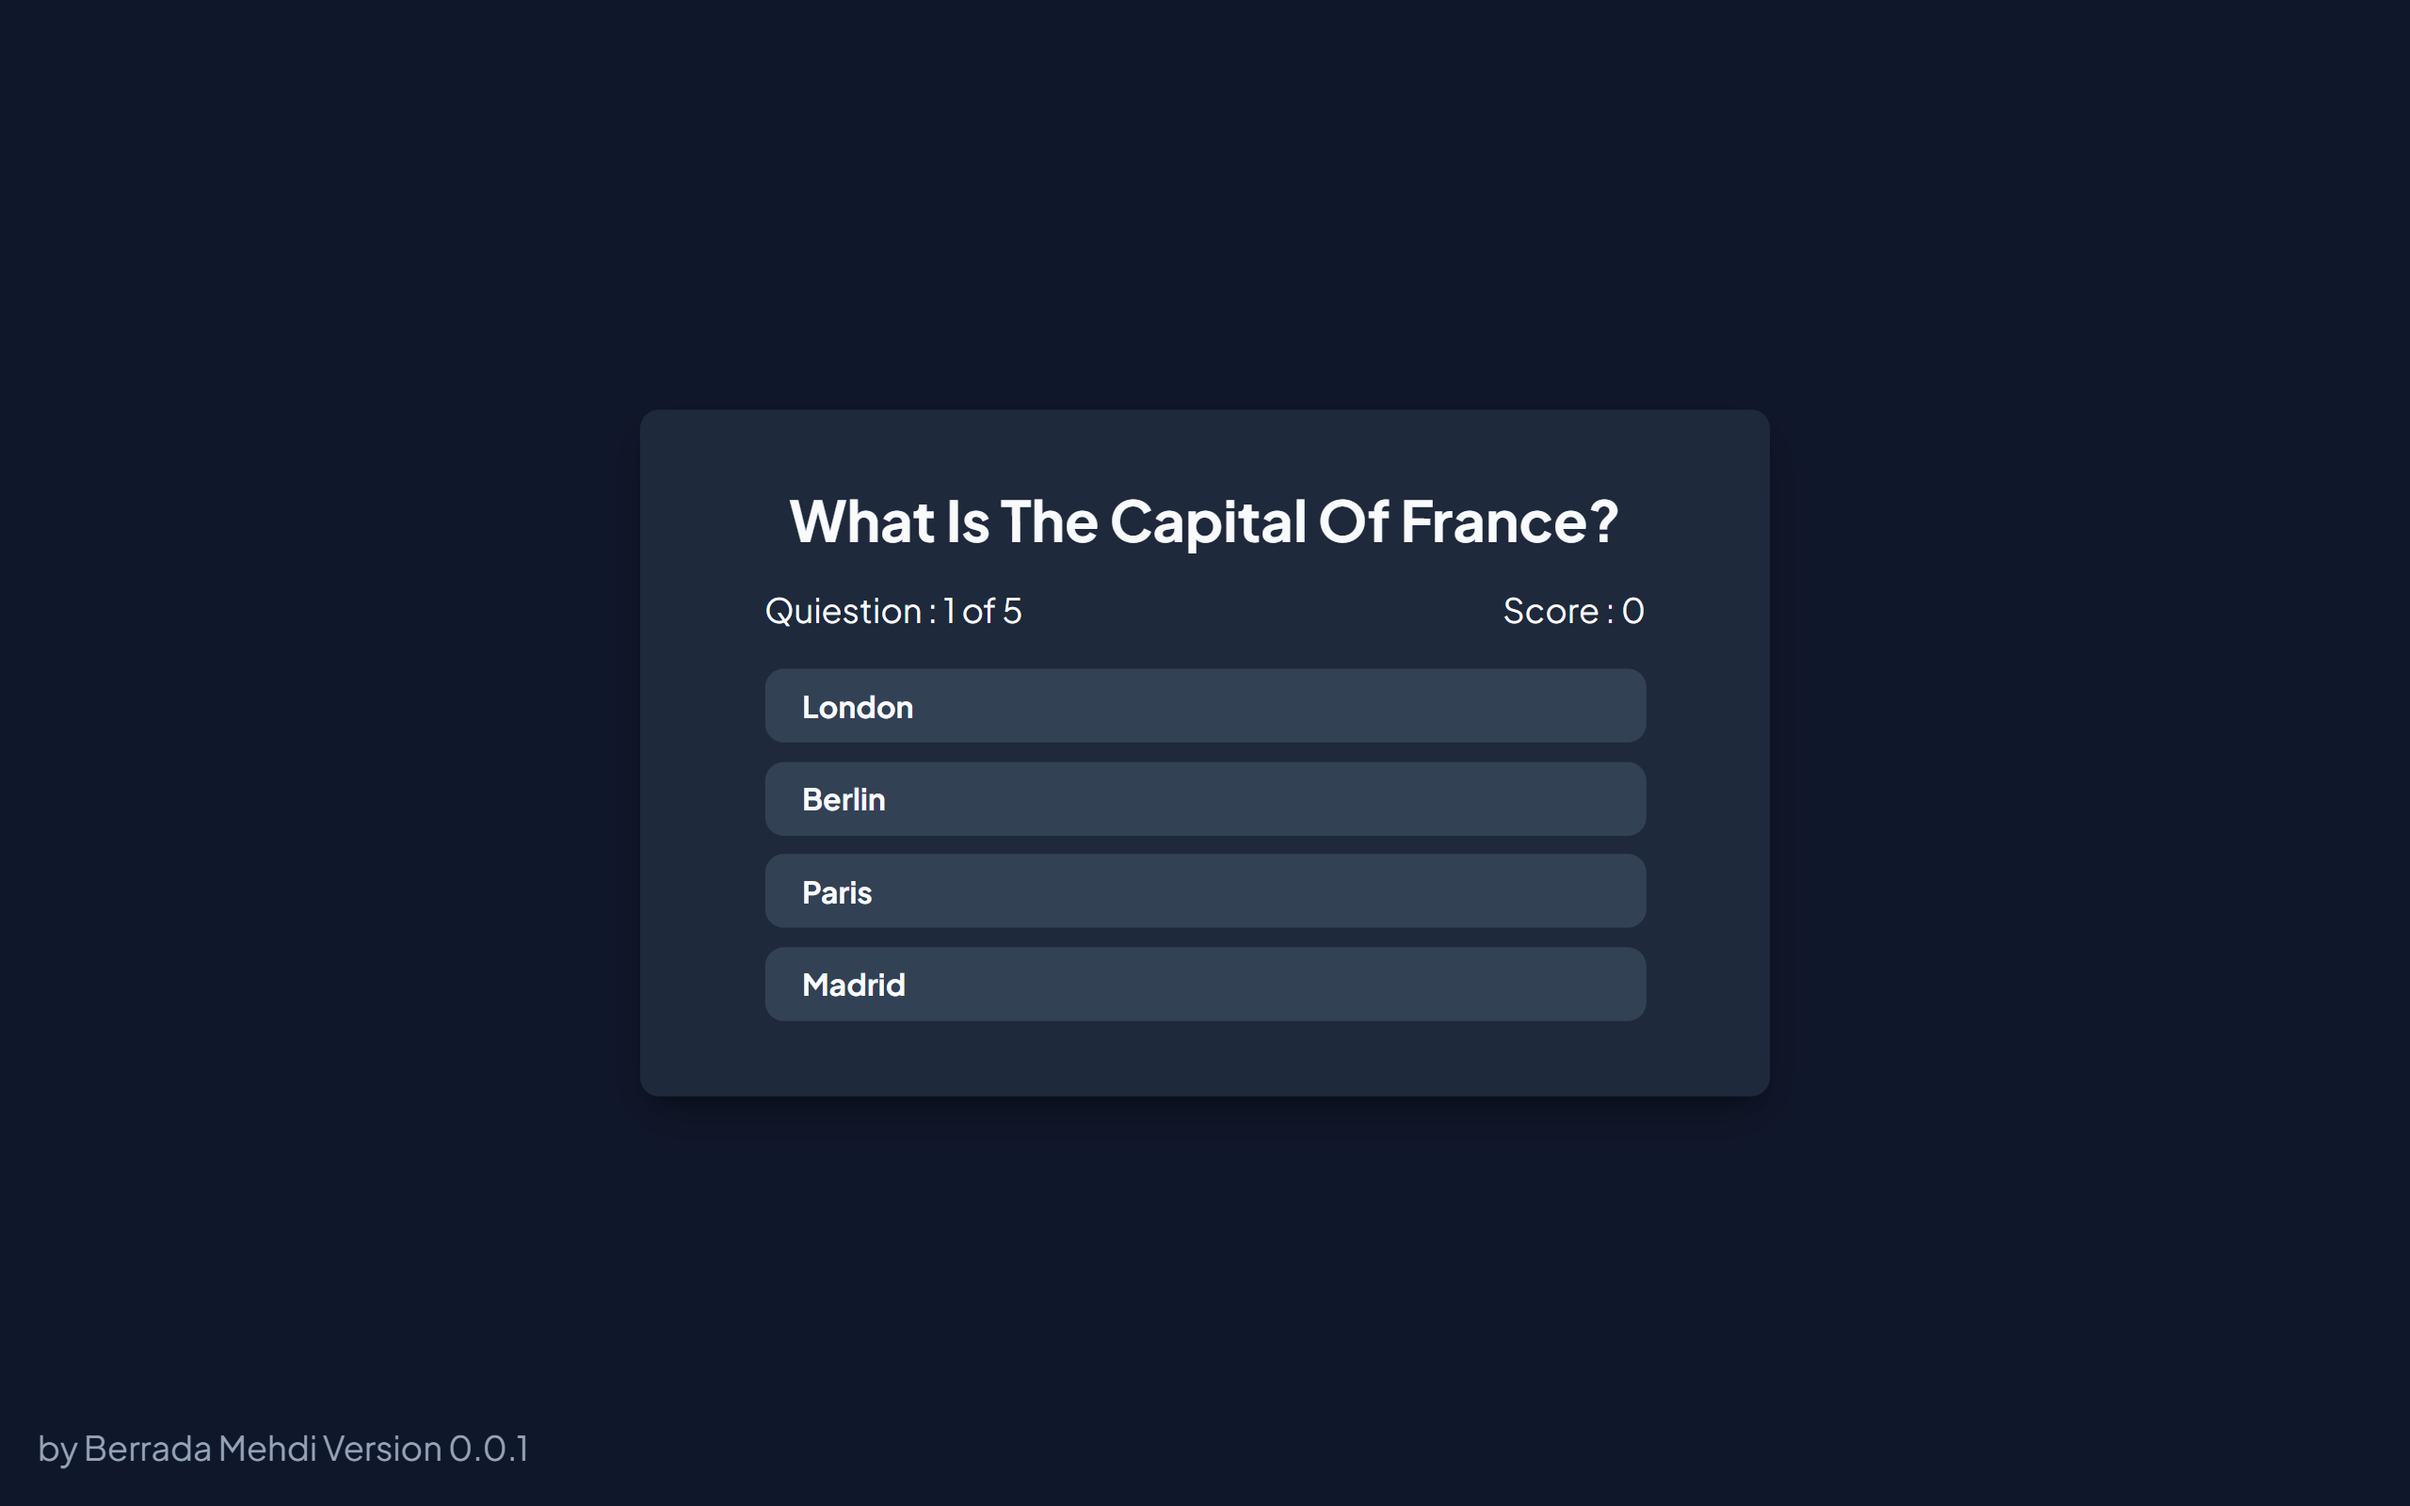
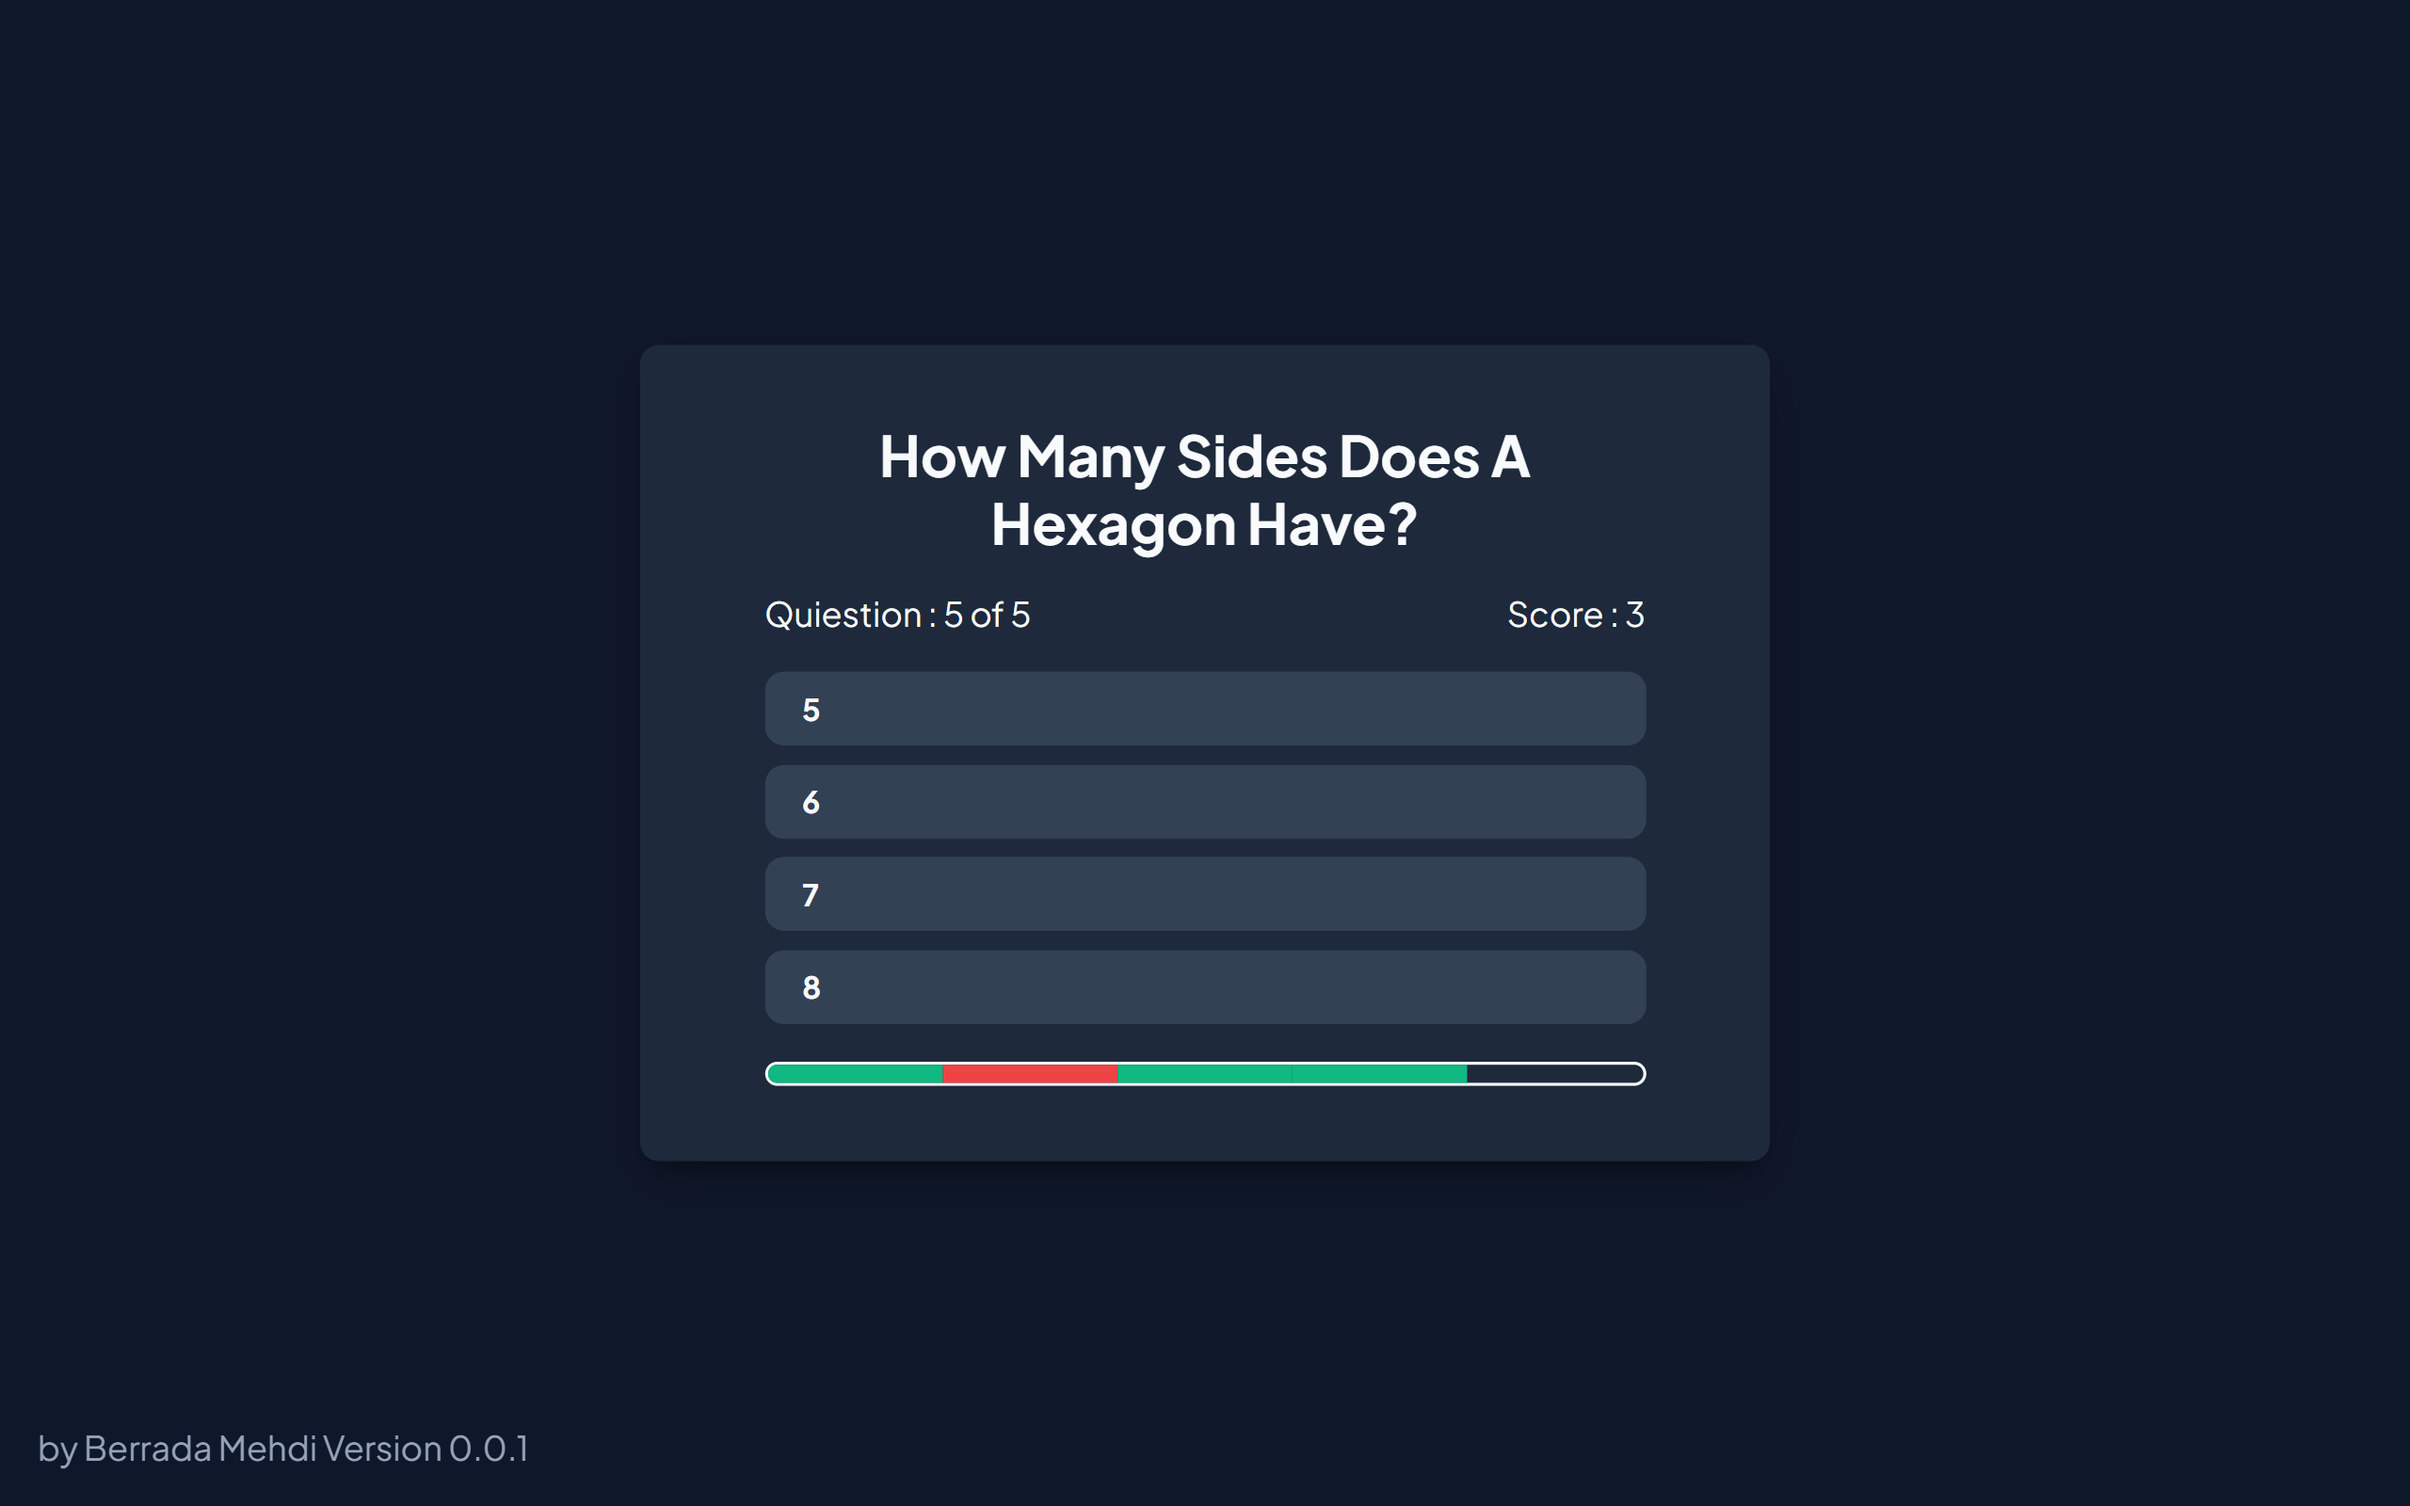
Release 0.1.0 is now available

Changed region(s): [[0.2812, 0.2812, 0.7188, 0.75]]

diff --git a/script.js b/script.js
@@ -28,15 +28,6 @@ const answer = [
     "6"
 ]
 
-const handleSecond = (view) => {
-    if(view) {
-        second_content.style.display = "flex"
-        handleQuestion(0)
-        return 0
-    }
-    second_content.style.display = "none"
-}
-
 let score = 0
 let good = 0
 const length = questions.length 
@@ -45,7 +36,21 @@ const box_answers = document.querySelector(".box-answers")
 const numbers_view = document.querySelector('.numbers')
 const score_view = document.querySelector(".score")
 const line_view = document.querySelector(".line")
-/* line.style.gridTemplateRows = `repeat(${length+1},1fr)` */
+
+line_view.style.gridTemplateColumns = `repeat(${length},1fr)`
+
+const handleSecond = (view) => {
+    if(view) {
+        second_content.style.display = "flex"
+        for (let i = 0; i < length; i++) {
+            line_view.innerHTML += `<div class='box' id='box${i}'></div>`
+        }
+        handleQuestion(0)
+        return 0
+    }
+    second_content.style.display = "none"
+}
+
 
 const handleQuestion = (value) => {
     question_title.textContent = questions[value]
@@ -53,41 +58,62 @@ const handleQuestion = (value) => {
     score_view.textContent = "Score : " + score
     box_answers.innerHTML = 
         `
-            <div class="answer" onclick="handleCheck('${options[value][0]}','${value}')">${options[value][0]}</div>
-            <div class="answer" onclick="handleCheck('${options[value][1]}','${value}')">${options[value][1]}</div>
-            <div class="answer" onclick="handleCheck('${options[value][2]}','${value}')">${options[value][2]}</div>
-            <div class="answer" onclick="handleCheck('${options[value][3]}','${value}')">${options[value][3]}</div>
+            <div class="answer" onclick="handleCheck('${options[value][0]}','${value}','${0}')">${options[value][0]}</div>
+            <div class="answer" onclick="handleCheck('${options[value][1]}','${value}','${1}')">${options[value][1]}</div>
+            <div class="answer" onclick="handleCheck('${options[value][2]}','${value}','${2}')">${options[value][2]}</div>
+            <div class="answer" onclick="handleCheck('${options[value][3]}','${value}','${3}')">${options[value][3]}</div>
         `
 }
 
-const handleCheck = (value,number) => {
+const handleCheck = (value,number,index) => {
     let count = number
+    const answersList = document.querySelectorAll(".answer")
+    const boxDiv = document.querySelector(`#box${number}`)
     if( answer[number] == value ) {
         score++
         good++
-        console.log(score)
-    }
-    count++
-    if(count < questions.length) {
-        handleQuestion(count)
+        answersList[index].style.backgroundColor = "#10b981"
+        boxDiv.style.backgroundColor = "#10b981"
     }
     else {
-        handleSecond(false)
-        handleResult(true)
+        answersList[index].style.backgroundColor = "#ef4444"
+        boxDiv.style.backgroundColor = "#ef4444"
     }
+    setTimeout(() => {
+        count++
+        answersList[index].style.backgroundColor = "#334155"
+        if(count < questions.length) {
+            handleQuestion(count)
+        }
+        else {
+            handleSecond(false)
+            handleResult(true)
+        }
+    },2000)
 }
 
 const third_content = document.querySelector(".third-content")
 const result_view = document.querySelector(".result-view")
+const titleResult = document.querySelector(".title-result")
 
 const handleResult = (view) => {
     if(view) {
         third_content.style.display = "flex"
         result_view.textContent = "you scored " + score + " of " + length
+        if(score < 3) {
+            titleResult.textContent = "Not your day, but you'll get 'em next time!"
+        }
+        else if ( score >= 3 && score < 5){
+            titleResult.textContent = "Not bad! Passing territory. Keep it up!"
+        }
+        else {
+            titleResult.textContent = "Okay Einstein, save some answers for the rest of us!"
+        }
         return 0
     }
     third_content.style.display = "none"
     score = 0
     good = 0
+    line_view.innerHTML = ""
     handleSecond(true)
 }

diff --git a/index.html b/index.html
@@ -33,14 +33,14 @@
                 <h1 class="title"> Quiz Result </h1>
                 <div class="box-result">
                     <span class="result-view"></span>
-                    <h2 class="title-result"> Good effort! <br> keep learning! </h2>    
+                    <h2 class="title-result"></h2>    
                 </div>
                 <button class="btn" onclick="handleResult(false)"> Restart Quiz </button>
             </div>
         </div>
     </div>
 
-    <div class="info-version"> by Berrada Mehdi Version 0.0.1 </div>
+    <div class="info-version"> by Berrada Mehdi Version 0.1.0 </div>
     <script src="script.js"></script>
 </body>
 </html>

diff --git a/css/second.css b/css/second.css
@@ -50,11 +50,22 @@
 }
 
 .second-content > .line {
-    display: none;
+    display: grid;
     grid-template-rows: repeat(1,1fr);
-    padding: 5px;
     border: 2px solid var(--text-main);
     border-radius: 10px;
+}
+
+.line > .box {
+    padding: 5px;
+}
+
+.line > .box:first-child {
+    border-radius: 10px 0 0 10px;
+}
+
+.line > .box:last-child {
+    border-radius: 0 10px 10px 0;
 }
 
 @media (max-width:767px) {

diff --git a/css/third.css b/css/third.css
@@ -33,7 +33,7 @@
 }
 
 .box-result > .title-result {
-    font-size: 32px;
+    font-size: 28px;
     color: var(--bg-main);
     text-align: center;
     font-weight: bold;

diff --git a/Readme.md b/Readme.md
@@ -4,18 +4,19 @@ A sleek and modern interactive quiz web application built with HTML5, CSS3, and 
 
 ---
 
-## 📱 App Interface & States
+## 📱 App Interface & New Update (v0.1.0)
 
 <p align="center">
-  <img src="./assets/start-screen.png" alt="Start Screen" width="280" style="border-radius: 12px; margin: 5px;">
-  <img src="./assets/question-screen.png" alt="Question Screen" width="280" style="border-radius: 12px; margin: 5px;">
-  <img src="./assets/result-screen.png" alt="Result Screen" width="280" style="border-radius: 12px; margin: 5px;">
+  <img src="./assets/start-screen.png" alt="Quiz Progress Bar Update v0.1.0" width="600" style="border-radius: 12px;">
+  <img src="./assets/question-screen.png" alt="Quiz Progress Bar Update v0.1.0" width="600" style="border-radius: 12px;">
+  <img src="./assets/result-screen.png" alt="Quiz Progress Bar Update v0.1.0" width="600" style="border-radius: 12px;">
 </p>
 
 ---
 
-## ✨ Features
+## ✨ Features & What's New in v0.1.0
 
+- **Progress Tracker Bar:** Added a visual progress bar at the bottom of the question screen to track correct (green) and incorrect (red) answers dynamically across questions.
 - **Interactive Quiz Flow:** Smooth transitions from the welcome screen to active questions and results.
 - **Dynamic Score Tracking:** Real-time score updates as you answer questions.
 - **Restart Capability:** Option to restart the quiz and try again instantly.
@@ -39,4 +40,4 @@ A modern web browser (Google Chrome, Mozilla Firefox, Microsoft Edge, Safari).
 ### Installation
 1. Clone the repository:
    ```bash
-   git clone [https://github.com/berradamehdi/Quiz-App-JS.git](https://github.com/berradamehdi/Quiz-App-JS.git)
+   git clone [https://github.com/your-username/Quiz-Time.git](https://github.com/your-username/Quiz-Time.git)
